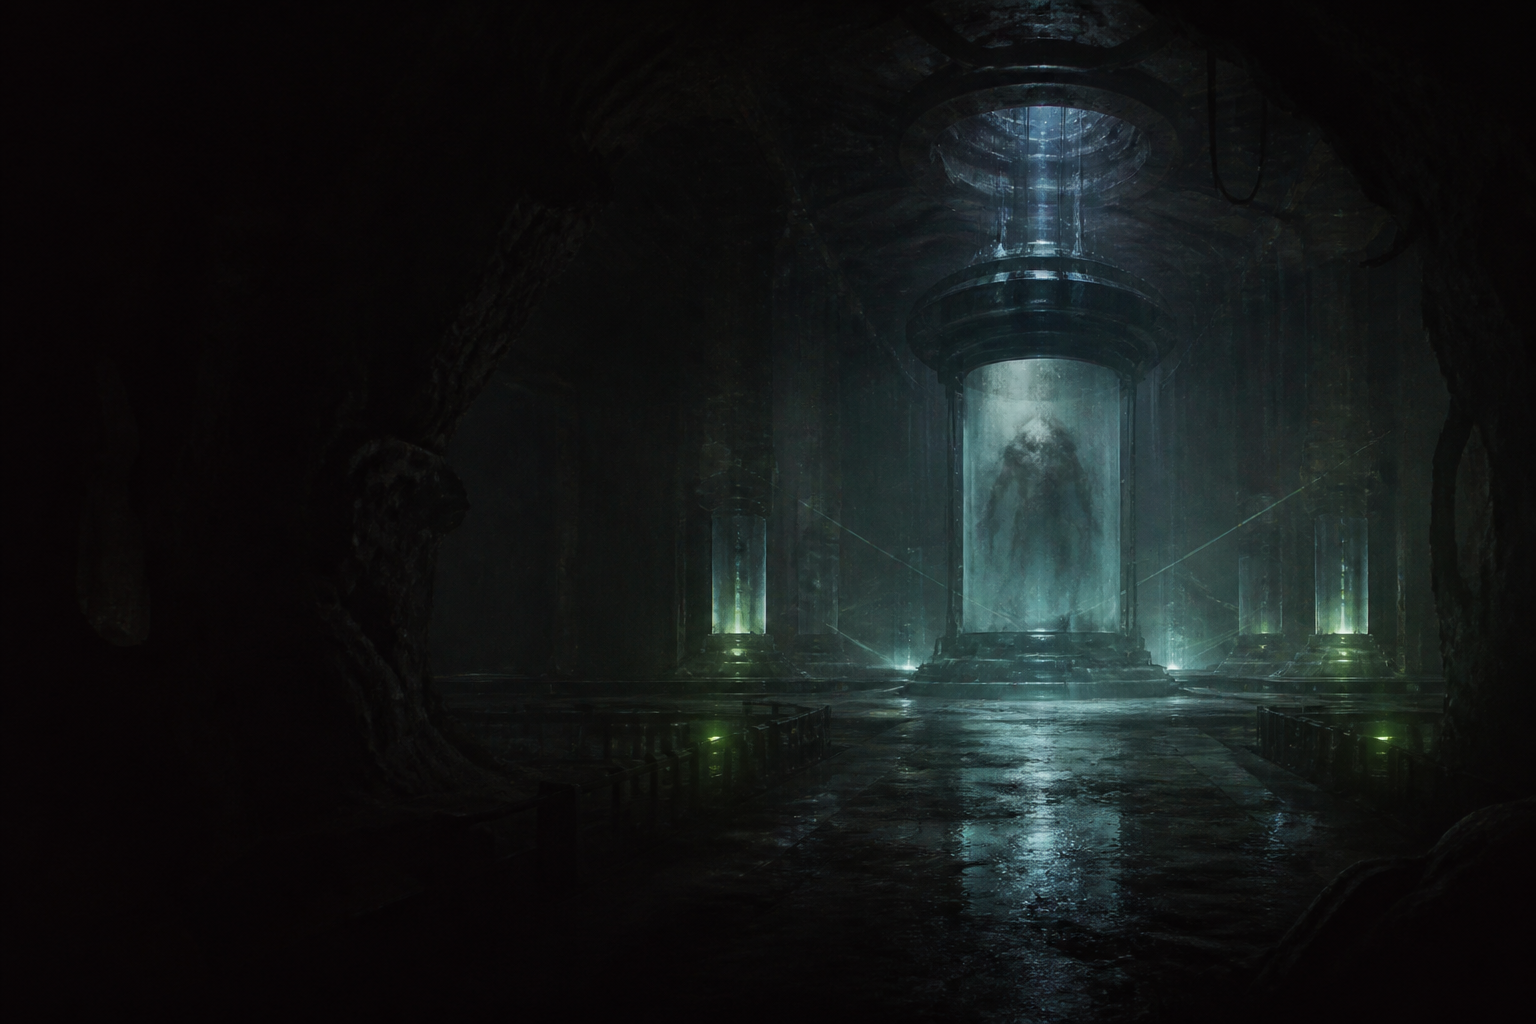
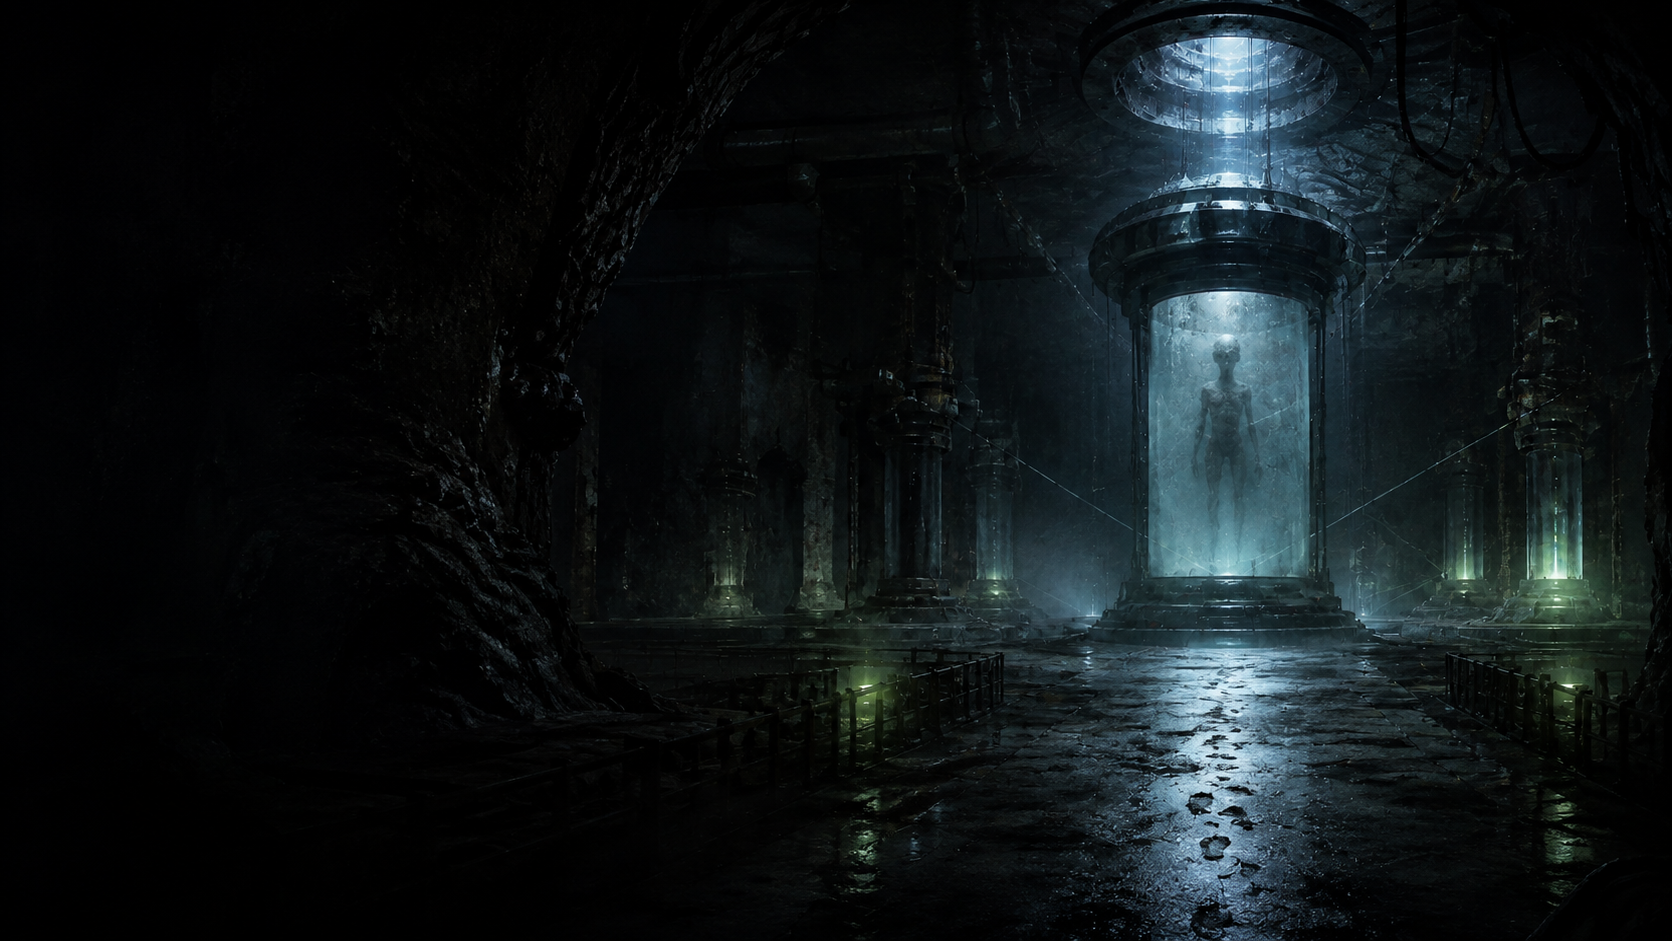
ヒーロー画像の変更、ロードボタン改善

Changed region(s): [[0.4062, 0.0, 1.0, 1.0], [0.9062, 0.8321, 0.9688, 0.9245], [0.2812, 0.3698, 0.3125, 0.4006]]

diff --git a/js/archive-render.js b/js/archive-render.js
@@ -269,7 +269,10 @@
 
     const hasMore = !isPreview && currentItems.length < filtered.length;
     if (archiveLoad) archiveLoad.hidden = filtered.length === 0;
-    if (loadMoreButton) loadMoreButton.hidden = !hasMore;
+    if (loadMoreButton) {
+      loadMoreButton.disabled = !hasMore;
+      loadMoreButton.setAttribute("aria-disabled", String(!hasMore));
+    }
     if (archiveSentinel) archiveSentinel.hidden = !hasMore;
     if (archiveEnd) archiveEnd.hidden = filtered.length === 0 || hasMore;
 

diff --git a/css/style.css b/css/style.css
@@ -373,6 +373,16 @@ img {
   color: var(--ink);
 }
 
+.button:disabled,
+.button:disabled:hover,
+.button:disabled:focus-visible {
+  border-color: var(--line-bright);
+  background: transparent;
+  color: var(--text-soft);
+  cursor: not-allowed;
+  opacity: 0.42;
+}
+
 .hero__telemetry {
   position: absolute;
   right: var(--page-pad);
